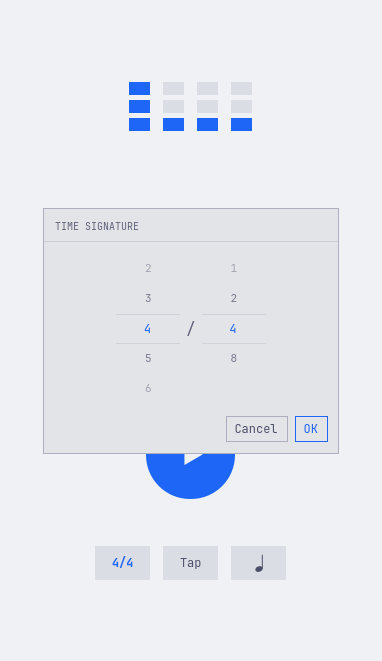
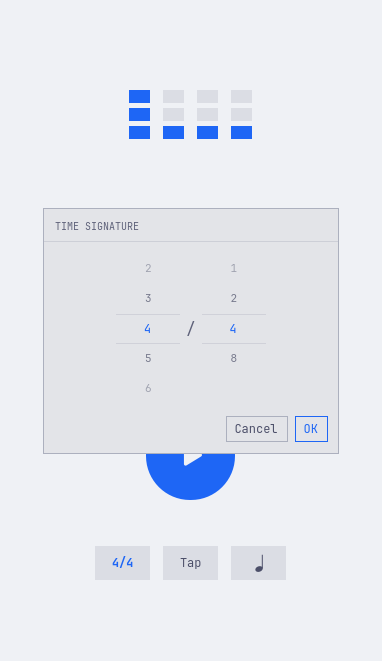
docs: retake the README's screenshots, and a tool that takes them
The six shots still showed the meter as it was before 0.1.4 gave it a mark
over the beat being played, so every one of them was a version behind on
more than the transport.

tools/screenshots.sh takes them: the three views in each of the README's
two themes, offscreen, over a stub backend holding the state the app opens
with, each theme under a HOME of its own because Theme.qml reads the live
theme out of ~/.local/state/omarchy/current. It is exact — run against the
UI as it stood at 065f4d0, the commit that last retook them, it reproduces
all six committed PNGs pixel for pixel, which is how the drift above was
found rather than guessed at.

diff --git a/tools/screenshots.qml b/tools/screenshots.qml
@@ -1,0 +1,71 @@
+import Quickshell
+import QtQuick
+import "WINKEL_UI_DIR" as Winkel
+
+// The README's screenshots: the main view, the time signature editor and the
+// subdivision editor, at the window's own 382x661, over a stub backend holding
+// the state the app opens with. tools/screenshots.sh drives this once per
+// theme; see docs/releasing.md.
+ShellRoot {
+    id: app
+
+    // Backend.qml's surface, without the process: enough for Main to bind to.
+    Item {
+        id: backend
+        signal stateReceived(real bpm, int beats, int denominator, var voices, real volume, int subdivision, int subpattern, int subshape)
+        signal readyReceived(string device, int rate, bool silent)
+        signal started()
+        signal beat(int beat, string kind)
+        signal stopped(int totalBeats)
+        signal failed(string message)
+        function hello() {}
+        function params(f) {}
+        function save(f) {}
+        function toggle() {}
+        function stop() {}
+    }
+
+    Window {
+        visible: true
+        width: 382
+        height: 661
+        Rectangle {
+            id: ground
+            anchors.fill: parent
+            color: Winkel.Theme.color.background
+            Winkel.Main { id: main; anchors.fill: parent; backend: backend }
+        }
+    }
+
+    // Each shot opens what it shows the way the buttons do.
+    readonly property var steps: [
+        { name: "main", act: function () {} },
+        { name: "time-signature", act: function () { main.tsOpen = true } },
+        { name: "subdivision", act: function () { main.tsOpen = false; main.subOpen = true } }
+    ]
+    property int at: 0
+
+    function run() {
+        if (at >= steps.length) { console.log("SHOTS done"); Qt.quit(); return }
+        var step = steps[at++]
+        step.act()
+        main.focusIndex = -1
+        main.rebuildRing()
+        // One frame for the change to land, one for it to settle.
+        Qt.callLater(function () { Qt.callLater(function () {
+            ground.grabToImage(function (result) {
+                result.saveToFile(Quickshell.env("SHOT_DIR") + "/" + Quickshell.env("SHOT_THEME") + "-" + step.name + ".png")
+                run()
+            })
+        }) })
+    }
+
+    // The state the app opens with: 80 bpm, 4/4, the first voice accented.
+    Timer {
+        interval: 600
+        running: true
+        onTriggered: { backend.stateReceived(80, 4, 4, [3,1,1,1,1,1,1,1,1,1,1,1,1,1,1,1], 0.8, 1, 1, 1); run() }
+    }
+    // A floor under a run that never reaches Qt.quit().
+    Timer { interval: 25000; running: true; onTriggered: Qt.quit() }
+}

diff --git a/docs/releasing.md b/docs/releasing.md
@@ -22,6 +22,19 @@ appstreamcli validate --no-net packaging/dev.douglasmoura.winkel.metainfo.xml
 desktop-file-validate packaging/dev.douglasmoura.winkel.desktop
 ```
 
+If the view changed, retake the README's screenshots:
+
+```sh
+tools/screenshots.sh                     # over docs/screenshots
+tools/screenshots.sh /tmp/shots          # or somewhere else, to compare first
+```
+
+It shoots the three views in each of the README's two themes, offscreen,
+under a HOME of its own per theme, so it needs no session and lands the same
+pixels twice. It reads each theme's `colors.toml` from
+`~/.local/share/omarchy/themes` and the `shell.toml` omarchy generated for
+the theme in use, so the two themes it shows must be installed.
+
 ## 3. Tag
 
 ```sh

diff --git a/AGENTS.md b/AGENTS.md
@@ -82,6 +82,9 @@ the package.
   and `dist` for a release tarball whose `make install` needs no cargo.
 - `packaging/` — the desktop entry, icon and AppStream metainfo, all named
   after the app id, and `aur/` with the source, `-bin` and `-git` packages.
+- `tools/screenshots.sh` — retakes the README's screenshots offscreen, three
+  views in each of two themes, from `tools/screenshots.qml` and a stub
+  backend. Same pixels twice; see docs/releasing.md.
 - `.github/workflows/` — `ci.yml` runs both test suites in an Arch container;
   `release.yml` builds x86_64 and aarch64 tarballs on a `v*` tag, publishes
   the release, then calls `aur.yml`, which publishes the three AUR packages

diff --git a/CHANGELOG.md b/CHANGELOG.md
@@ -16,6 +16,12 @@ All notable changes to this project are recorded here. The format follows
   (128, 128) — the triangle's box leans right of centre precisely so the
   shape does not.
 
+### Fixed
+
+- The README's screenshots are retaken. They still showed the meter as it
+  was before 0.1.4 marked the beat being played. `tools/screenshots.sh`
+  takes them now, offscreen and the same twice, so they can keep up.
+
 ## [0.1.4] - 2026-09-16
 
 ### Added
